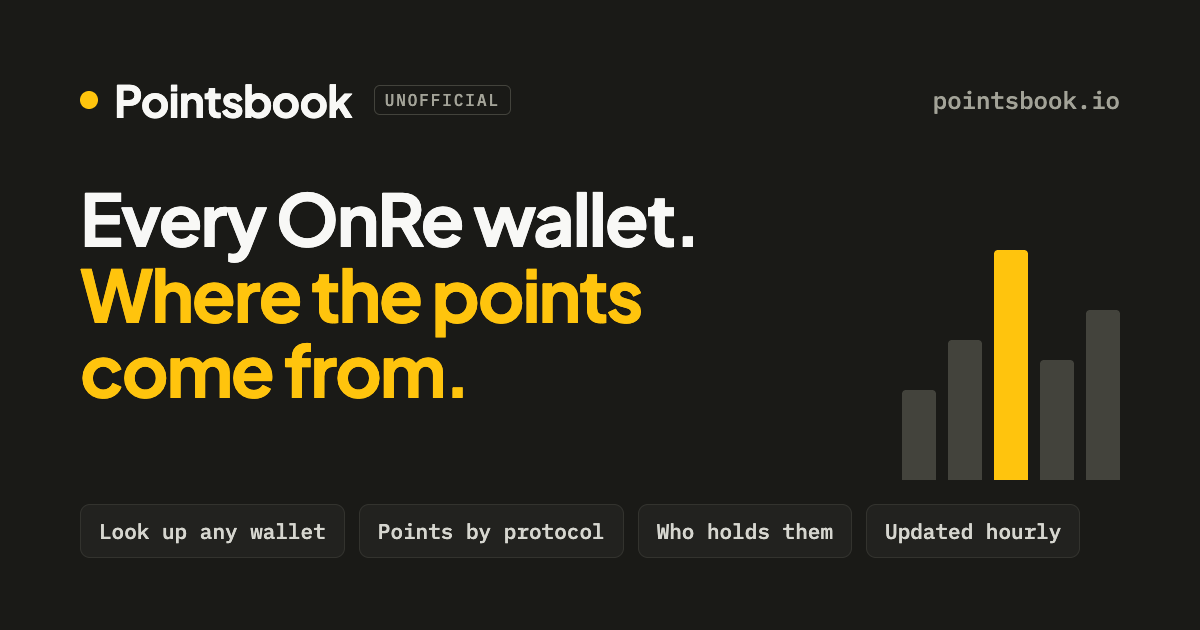
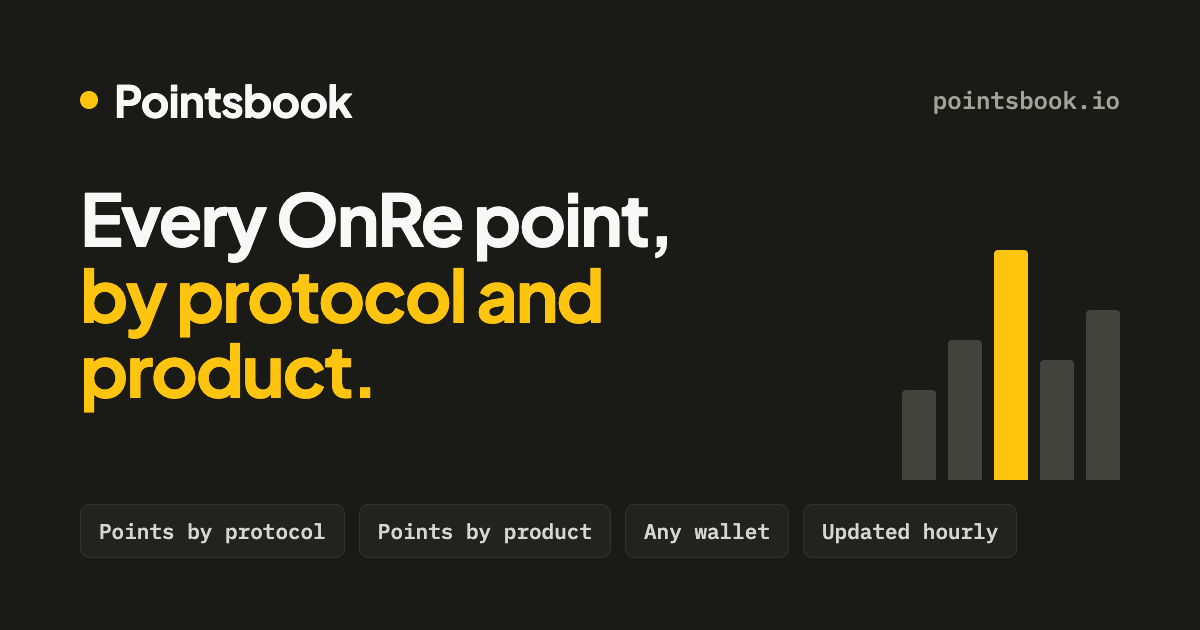
Points by protocol and product as the lead section; drop Unofficial tag; share card and meta copy follow

diff --git a/src/_head.html b/src/_head.html
@@ -1,17 +1,17 @@
 <title>Pointsbook</title>
-<meta name="description" content="Unofficial OnRe points ledger: every wallet's rank and daily rate, where points come from by protocol and product, who holds them, and what changed. Updated hourly.">
+<meta name="description" content="Every OnRe point, broken down by protocol and product. Look up any wallet's rank, daily rate and sources. Updated hourly.">
 <meta property="og:type" content="website">
 <meta property="og:site_name" content="Pointsbook">
-<meta property="og:title" content="Pointsbook — the unofficial OnRe points ledger">
-<meta property="og:description" content="Look up any wallet, see where points come from and who holds them. Every OnRe wallet, updated hourly.">
+<meta property="og:title" content="Pointsbook — OnRe points by protocol and product">
+<meta property="og:description" content="Every OnRe point, broken down by protocol and product. Look up any wallet. Updated hourly.">
 <meta property="og:url" content="https://pointsbook.io/">
 <meta property="og:image" content="https://pointsbook.io/og.png">
 <meta property="og:image:width" content="1200">
 <meta property="og:image:height" content="630">
 <meta name="twitter:card" content="summary_large_image">
 <meta name="twitter:creator" content="@maeonchain">
-<meta name="twitter:title" content="Pointsbook — the unofficial OnRe points ledger">
-<meta name="twitter:description" content="Look up any wallet, see where points come from and who holds them. Updated hourly.">
+<meta name="twitter:title" content="Pointsbook — OnRe points by protocol and product">
+<meta name="twitter:description" content="Every OnRe point, broken down by protocol and product. Look up any wallet. Updated hourly.">
 <meta name="twitter:image" content="https://pointsbook.io/og.png">
 <meta name="theme-color" content="#1A1A17">
 <link rel="preconnect" href="https://fonts.googleapis.com">
@@ -315,8 +315,8 @@ footer a{color:var(--accent)}
 /* ---------- single-page layout ----------
    12-column board; panels that share a row stretch to the same height. */
 .board{display:grid; grid-template-columns:repeat(12,minmax(0,1fr)); gap:20px; margin-top:20px; align-items:stretch}
-.a-look{grid-column:1/-1} .a-ref{grid-column:1/-1} .a-chart{grid-column:span 7} .a-src{grid-column:span 5}
-.a-top{grid-column:span 7} .a-conc{grid-column:span 5}
+.a-look{grid-column:1/-1} .a-ref{grid-column:1/-1} .a-src{grid-column:1/-1} .a-chart{grid-column:span 7}
+.a-conc{grid-column:span 5} .a-top{grid-column:1/-1}
 @media (max-width:980px){ .board>*{grid-column:1/-1} }
 .panel{background:var(--surface); border:1px solid var(--line); border-radius:var(--r); padding:18px 20px;
   min-width:0; display:flex; flex-direction:column}
@@ -377,6 +377,17 @@ td.share{white-space:nowrap}
 tr:not(.proto) .meter i{opacity:.55}
 .meter i{display:block; height:100%; border-radius:3px}
 .srcwrap{margin-top:18px}
+.srcbar-lg{height:16px; border-radius:8px}
+.srcgrid{display:grid; grid-template-columns:minmax(0,1fr) minmax(0,1.25fr); gap:16px 48px; margin-top:20px}
+@media (max-width:900px){ .srcgrid{grid-template-columns:minmax(0,1fr)} }
+.srch{display:flex; align-items:baseline; justify-content:space-between; gap:10px; margin-bottom:12px;
+  padding-bottom:8px; border-bottom:1px solid var(--line)}
+.srch h3{font-family:"Plus Jakarta Sans",Inter,sans-serif; font-size:14px; font-weight:600; margin:0; color:var(--ink)}
+.srccol .srclegend{margin-top:0}
+#prodlist .srcrow{grid-template-columns:minmax(170px,42%) minmax(0,1fr) 52px}
+.srcrow .nm .pl{display:flex; flex-direction:column; min-width:0; line-height:1.25}
+.srcrow .nm .pl small{font-family:"IBM Plex Mono",monospace; font-size:10.5px; color:var(--faint)}
+.srcrow .rt{font-family:"IBM Plex Mono",monospace; font-size:10.5px; color:var(--good); margin-left:6px}
 .srcwrap h3{font-size:15px; font-weight:600; letter-spacing:-.012em; margin:0 0 10px}
 
 /* ---------- concentration ---------- */
@@ -512,7 +523,7 @@ tr.hit td:first-child{box-shadow:inset 3px 0 0 var(--accent)}
 </style>
 <header class="top">
   <div class="wrap topbar">
-    <span class="brand"><span class="dot"></span><b>Pointsbook</b><span class="sub">OnRe points ledger</span><span class="unoff" title="Community-built. Not affiliated with OnRe.">Unofficial</span></span>
+    <span class="brand"><span class="dot"></span><b>Pointsbook</b><span class="sub">OnRe points ledger</span></span>
     <span class="asof" id="asof"></span>
     <a class="byline" id="byline" href="#" target="_blank" rel="noopener" hidden></a>
     <span class="bellwrap" id="events-sec">
@@ -547,6 +558,22 @@ tr.hit td:first-child{box-shadow:inset 3px 0 0 var(--accent)}
   <div class="stats" id="stats"></div>
 
   <div class="board">
+    <div class="panel a-src" id="src-sec">
+      <div class="ph"><h2>Where the points come from</h2><span class="eyebrow" id="srcasof"></span></div>
+      <div class="srcbar srcbar-lg" id="srcbar" role="img"></div>
+      <div class="srcgrid">
+        <div class="srccol">
+          <div class="srch"><h3>By protocol</h3><span class="eyebrow">Share of all points</span></div>
+          <div class="srclegend" id="srclegend"></div>
+        </div>
+        <div class="srccol">
+          <div class="srch"><h3>By product</h3><button class="linkbtn" id="srcbtn" type="button">All products</button></div>
+          <div class="srclegend" id="prodlist"></div>
+        </div>
+      </div>
+      <p class="hint push" id="srcnote"></p>
+    </div>
+
     <div class="panel lookup a-look">
       <div class="ph"><h2>Find a wallet</h2><span class="eyebrow" id="lookcount"></span></div>
       <form id="lform" autocomplete="off">
@@ -579,11 +606,13 @@ tr.hit td:first-child{box-shadow:inset 3px 0 0 var(--accent)}
       </div>
     </div>
 
-    <div class="panel a-src" id="src-sec">
-      <div class="ph"><h2>Where points come from</h2><button class="linkbtn" id="srcbtn" type="button">By product</button></div>
-      <div class="srcbar" id="srcbar" role="img"></div>
-      <div class="srclegend" id="srclegend"></div>
-      <p class="hint push" id="srcnote"></p>
+    <div class="panel a-conc">
+      <div class="ph"><h2>Who holds the points</h2><span class="eyebrow">By rank</span></div>
+      <div class="conc">
+        <div class="conc-chart" id="conc-chart"></div>
+        <div class="conc-legend" id="conc-legend"></div>
+      </div>
+      <p class="hint push" id="conc-note"></p>
     </div>
 
     <div class="panel a-top">
@@ -595,16 +624,6 @@ tr.hit td:first-child{box-shadow:inset 3px 0 0 var(--accent)}
         </table>
       </div>
     </div>
-
-    <div class="panel a-conc">
-      <div class="ph"><h2>Who holds the points</h2><span class="eyebrow">By rank</span></div>
-      <div class="conc">
-        <div class="conc-chart" id="conc-chart"></div>
-        <div class="conc-legend" id="conc-legend"></div>
-      </div>
-      <p class="hint push" id="conc-note"></p>
-    </div>
-
   </div>
 
   <div class="foot">

diff --git a/src/_app.js b/src/_app.js
@@ -321,7 +321,20 @@ function srcTable(G,opts){
       '<span class="bar"><i style="width:'+(s/topShare*100).toFixed(1)+'%;background:'+PCOL[gr.p]+'"></i></span>'+
       '<b>'+sh1(s)+'</b></div>';
   }).join("");
-  document.getElementById("srcnote").textContent="Share of every point ever credited, as itemised by OnRe on "+SRC.asOf+".";
+  /* products: every label ranked on its own, coloured by its protocol */
+  var prods=SRC.labels.map(function(l,i){return {p:l[0],n:l[1],v:SRC.pts[i],w:SRC.wallets[i],r:SRC.rate?SRC.rate[i]:0};})
+    .filter(function(x){return x.v>0;}).sort(function(x,y){return y.v-x.v;});
+  var topP=prods.length?prods[0].v:1, SHOWN=10;
+  document.getElementById("prodlist").innerHTML=prods.slice(0,SHOWN).map(function(x){
+    var s=x.v/G.total;
+    return '<div class="srcrow"><span class="nm"><span class="sw" style="background:'+PCOL[x.p]+'"></span>'+
+      '<span class="pl">'+esc(x.p===x.n?x.n:x.p+" · "+x.n)+'<small>'+n(x.w)+' wallets'+(x.r>0?' · +'+compact(x.r)+'/day':'')+'</small></span></span>'+
+      '<span class="bar"><i style="width:'+(x.v/topP*100).toFixed(1)+'%;background:'+PCOL[x.p]+'"></i></span>'+
+      '<b>'+sh1(s)+'</b></div>';
+  }).join("");
+  document.getElementById("srcbtn").textContent="All "+prods.length+" products";
+  document.getElementById("srcasof").textContent=n(G.total)+" points · "+SRC.labels.length+" products";
+  document.getElementById("srcnote").textContent="Share of every point ever credited, as itemised by OnRe on "+SRC.asOf+". "+srcRateNote();
   document.getElementById("srclead").textContent="All "+n(G.total)+" points across "+n(N)+" wallets, split by the protocol and product OnRe credits them to. "+srcRateNote();
   document.getElementById("srctable").innerHTML=srcTable(G,{rate:!!SRC.rate,wallets:true});
   document.getElementById("srcbtn").onclick=function(){openDlg("dlg-sources","sources");};
